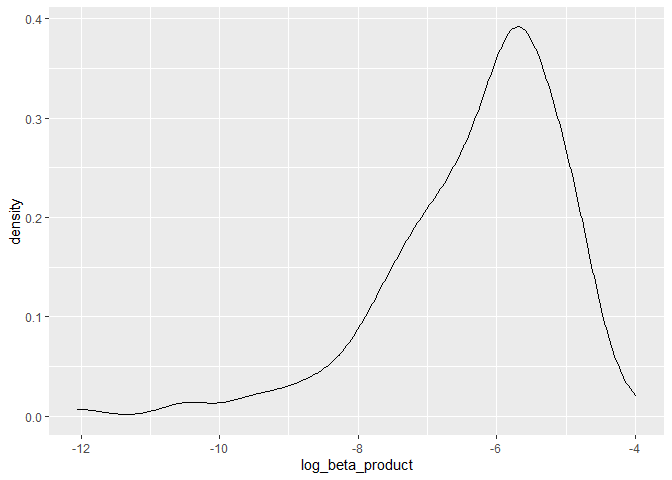
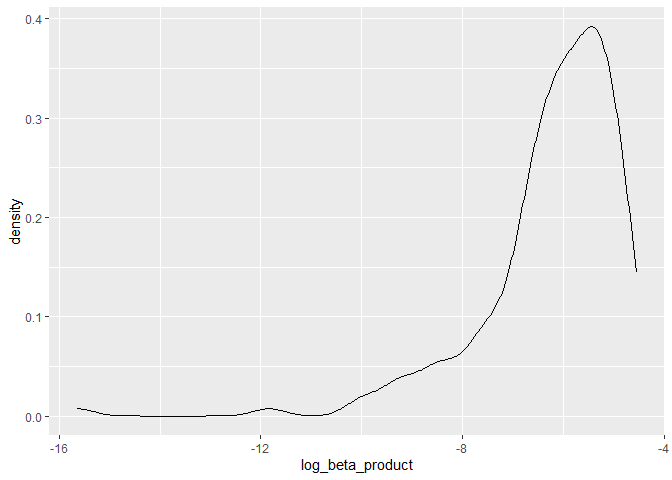
additional commit

diff --git a/p8105_hw6_ss6692.md b/p8105_hw6_ss6692.md
@@ -1,7 +1,7 @@
 p8105_hw6_ss6692
 ================
 Sanika Sule
-2023-12-02
+\`r Sys.Date()
 
 ### Problem 2
 
@@ -38,6 +38,8 @@ library(mgcv)
     ##     collapse
     ## 
     ## This is mgcv 1.9-0. For overview type 'help("mgcv-package")'.
+
+Downloading weather data.
 
 ``` r
 weather_df = 
@@ -84,18 +86,20 @@ boot_sample = function(df) {
 boot_straps = 
   tibble(strap_number = 1:500) |> 
   mutate(
-    bootstrap_results = map(strap_number, ~boot_sample(weather_df))
+    bootstrap_results = map(strap_number, ~ boot_sample(weather_df))
   ) |> 
   unnest(bootstrap_results)
 ```
 
-    ## Warning: There were 331 warnings in `mutate()`.
+    ## Warning: There were 329 warnings in `mutate()`.
     ## The first warning was:
     ## ℹ In argument: `bootstrap_results = map(strap_number,
     ##   ~boot_sample(weather_df))`.
     ## Caused by warning in `log()`:
     ## ! NaNs produced
-    ## ℹ Run `dplyr::last_dplyr_warnings()` to see the 330 remaining warnings.
+    ## ℹ Run `dplyr::last_dplyr_warnings()` to see the 328 remaining warnings.
+
+Distribution of r^2 values
 
 ``` r
 boot_straps |> 
@@ -105,12 +109,130 @@ boot_straps |>
 
 ![](p8105_hw6_ss6692_files/figure-gfm/unnamed-chunk-1-1.png)<!-- -->
 
+Distribution of `log(βprcp*βtmin)` values
+
 ``` r
 boot_straps |> 
   ggplot(aes(x = log_beta_product)) + 
   geom_density()
 ```
 
-    ## Warning: Removed 331 rows containing non-finite values (`stat_density()`).
+    ## Warning: Removed 329 rows containing non-finite values (`stat_density()`).
 
 ![](p8105_hw6_ss6692_files/figure-gfm/unnamed-chunk-2-1.png)<!-- -->
+There are `322 non-finite values`, which will not be included in the
+`log(βprcp*βtmin)` plot.
+
+### Problem 3
+
+Cleaning birthweight data
+
+``` r
+birthweight =
+  read_csv("data/birthweight.csv") |> 
+  janitor::clean_names() |> 
+  mutate(babysex = as.factor(babysex))
+```
+
+    ## Rows: 4342 Columns: 20
+    ## ── Column specification ────────────────────────────────────────────────────────
+    ## Delimiter: ","
+    ## dbl (20): babysex, bhead, blength, bwt, delwt, fincome, frace, gaweeks, malf...
+    ## 
+    ## ℹ Use `spec()` to retrieve the full column specification for this data.
+    ## ℹ Specify the column types or set `show_col_types = FALSE` to quiet this message.
+
+For my proposed model, I will investigate the relationship between the
+mother’s age at menarche `menarche` and the baby’s birth weight `bwt`.
+
+``` r
+menarche_bwt = 
+  birthweight |> lm(bwt ~ menarche, data = _)
+```
+
+Plotting residuals using `add_predictions` and `add residuals`
+
+``` r
+birthweight |> 
+  modelr::add_predictions(menarche_bwt) |> 
+  modelr::add_residuals(menarche_bwt) |> 
+  ggplot(aes(x = pred, y = resid)) + 
+  geom_point() + 
+  labs(title = "Residuals vs. Fitted Values",
+       x = "Fitted Values",
+       y = "Residuals")
+```
+
+![](p8105_hw6_ss6692_files/figure-gfm/unnamed-chunk-5-1.png)<!-- -->
+
+Creating models to compare my model to.
+
+``` r
+comparison_1 = 
+  birthweight |> 
+  lm(bwt ~ blength + gaweeks, data = _)
+
+comparison_2 = 
+  birthweight |> 
+  lm(bwt ~ babysex*bhead*blength, data = _)
+```
+
+Comparing my model to the two comparison models.
+
+``` r
+birthweight |> 
+  gather_predictions(menarche_bwt, comparison_1, comparison_2) |> 
+  mutate(model = fct_inorder(model)) |> 
+  ggplot(aes(x = blength, y = bwt)) + 
+  geom_point(alpha = .5) +
+  geom_line(aes(y = pred), color = "red") + 
+  facet_grid(~model)
+```
+
+![](p8105_hw6_ss6692_files/figure-gfm/unnamed-chunk-7-1.png)<!-- -->
+
+Comparing using `crossv_mc`
+
+``` r
+cv_data =
+  crossv_mc(birthweight, 100) |> 
+  mutate(
+    train = map(train, as_tibble),
+    test = map(test, as_tibble))
+```
+
+RMSE value distribution for the two candidate models.
+
+``` r
+cv_data = 
+  cv_data |> 
+  mutate(
+    model_mod  = map(train, \(df) lm(bwt ~ menarche, data = df)),
+    comparison_1     = map(train, \(df) lm(bwt ~ blength + gaweeks, data = df)),
+    comparison_2  = map(train, \(df) lm(bwt ~ babysex*bhead*blength, data = df))) |> 
+  mutate(
+    rmse_model = map2_dbl(model_mod, test, \(mod, df) rmse(model = mod, data = df)),
+    rmse_comparison1    = map2_dbl(comparison_1, test, \(mod, df) rmse(model = mod, data = df)),
+    rmse_comparison2 = map2_dbl(comparison_2, test, \(mod, df) rmse(model = mod, data = df)))
+```
+
+Plotting RMSE values for the proposed model and two comparison models
+
+``` r
+cv_data |> 
+  select(starts_with("rmse")) |> 
+  pivot_longer(
+    everything(),
+    names_to = "model", 
+    values_to = "rmse",
+    names_prefix = "rmse_") |> 
+  mutate(model = fct_inorder(model)) |> 
+  ggplot(aes(x = model, y = rmse)) + geom_violin()
+```
+
+![](p8105_hw6_ss6692_files/figure-gfm/unnamed-chunk-10-1.png)<!-- -->
+
+The comparison 2 distribution shows the lowest RMSE values, and
+therefore has the best predictive ability.The proposed model has very
+high RMSE values, indicating that mother’s age at menarche has low
+predictive accuracy.
